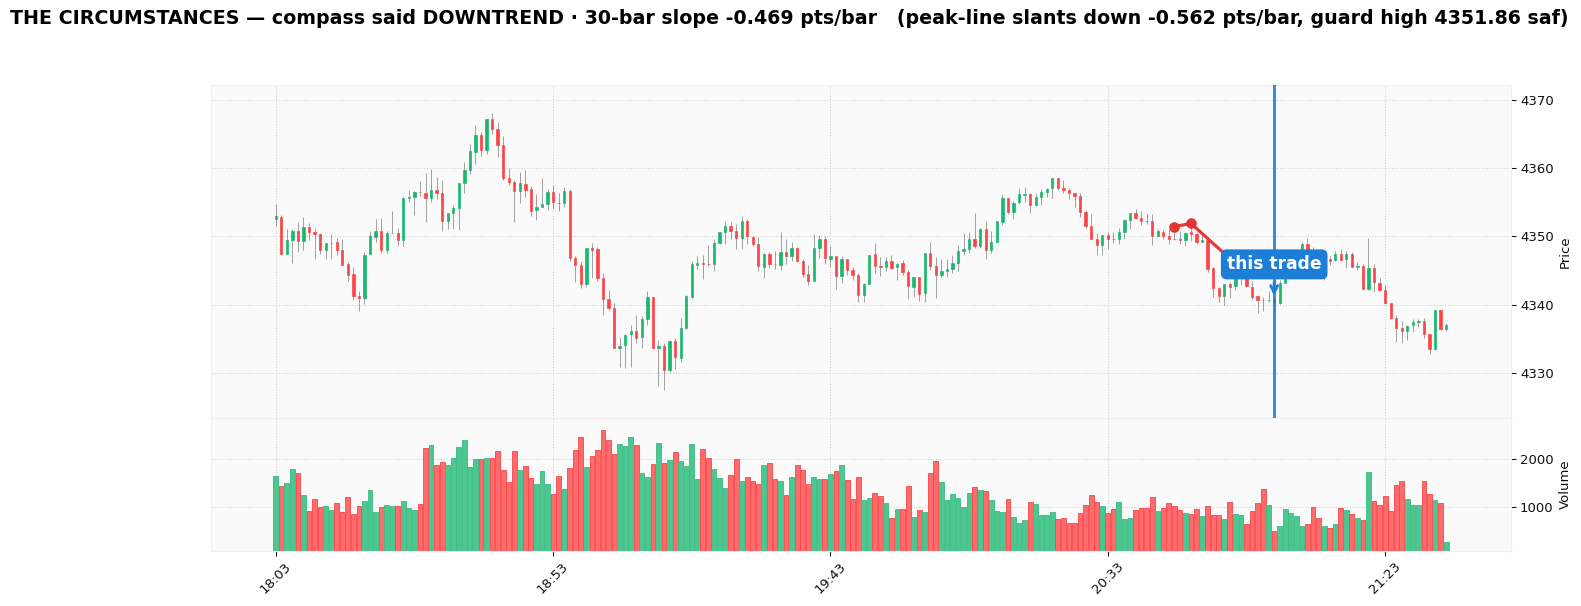
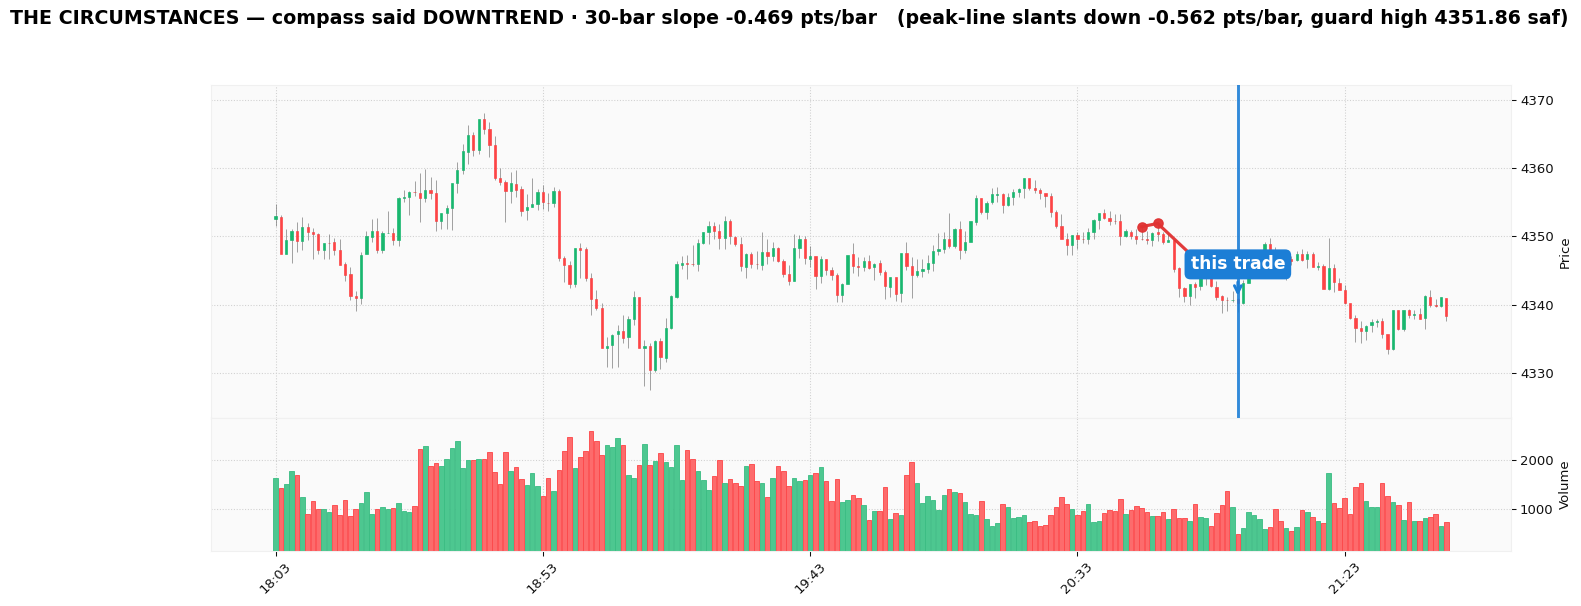
👀 The forming-setup window gets the same two-panel treatment (Zee): the forming setup on top, THE CIRCUMSTANCES NOW underneath — same zoomed-out trend/slope/volume frame as a taken trade, so a setup on the way is judged in exactly the same visual terms. Captions adapt (forming vs taken); scrollable 

diff --git a/monitor/forensic_chart.py b/monitor/forensic_chart.py
@@ -389,18 +389,30 @@ def draw_forming(out=None):
     return out, f"{side} · trigger {lamp:.2f} · {swept_txt} · {laws} diamond(s)"
 
 
+def draw_context_now(bars_back=180):
+    """The same CIRCUMSTANCES panel for the live moment — used under the forming
+    setup, so a setup on the way is judged in the same visual frame as a taken
+    trade (Zee 2026-08-07)."""
+    return draw_context(None, None, bars_back=bars_back,
+                        out=Path(__file__).parent / "setup_labels" / "context_now.png")
+
+
 def draw_context(broker_ts, side, bars_back=180, out=None):
     """THE CIRCUMSTANCES (Zee 2026-08-07): a zoomed-out view under the close-up —
     candles + volume over a wide window, the trade's entry marked, and the compass
     line drawn through the swing peaks, so it is obvious at a glance what the trend
     and slope looked like when this trade was taken."""
     import trend_eyes as _TE
-    r = resolve_trade(broker_ts, side)
     rows = load()
     if not rows:
         return None
-    e_utc = r["entry_utc"] if r else (datetime.strptime(broker_ts, "%Y.%m.%d %H:%M:%S")
-                                      - timedelta(hours=3))
+    live = broker_ts is None
+    r = None if live else resolve_trade(broker_ts, side)
+    if live:
+        e_utc = rows[-1][0]
+    else:
+        e_utc = r["entry_utc"] if r else (datetime.strptime(broker_ts, "%Y.%m.%d %H:%M:%S")
+                                          - timedelta(hours=3))
     ei = next((i for i, x in enumerate(rows)
                if x[0] <= e_utc < x[0] + timedelta(minutes=1)), None)
     if ei is None:
@@ -421,14 +433,17 @@ def draw_context(broker_ts, side, bars_back=180, out=None):
     a = _TE.auto_call(tb, upto=ei + 1)
     slope = _TE.slope_of(tb, upto=ei + 1)
     style = mpf.make_mpf_style(base_mpf_style="yahoo", gridstyle=":")
-    ttl = (f"THE CIRCUMSTANCES — compass said {a['trend']} · 30-bar slope "
-           f"{slope:+.3f} pts/bar   ({a['why'][:60]})")
+    ttl = ((f"THE CIRCUMSTANCES NOW — compass says {a['trend']} · 30-bar slope "
+            f"{slope:+.3f} pts/bar   ({a['why'][:58]})") if live else
+           (f"THE CIRCUMSTANCES — compass said {a['trend']} · 30-bar slope "
+            f"{slope:+.3f} pts/bar   ({a['why'][:60]})"))
     fig, axes = mpf.plot(df, type="candle", style=style, volume=True, figsize=(19, 7),
                          returnfig=True, title=ttl)
     ax = axes[0]
     epos = ei - lo
     ax.axvline(epos, color="#1c7ed6", lw=2.2, ls="-", alpha=0.9, zorder=5)
-    ax.annotate("this trade", xy=(epos, win[epos][2]), textcoords="offset points",
+    ax.annotate("now" if live else "this trade", xy=(epos, win[epos][2]),
+                textcoords="offset points",
                 xytext=(0, 22), fontsize=13, fontweight="bold", color="white",
                 ha="center", annotation_clip=False, zorder=6,
                 bbox=dict(boxstyle="round,pad=0.35", fc="#1c7ed6", ec="none"),
@@ -445,7 +460,7 @@ def draw_context(broker_ts, side, bars_back=180, out=None):
     pad = max((hi_p - lo_p) * 0.10, 0.3)
     ax.set_ylim(lo_p - pad, hi_p + pad)
     out = out or (Path(__file__).parent / "setup_labels" /
-                  f"context_{broker_ts[11:].replace(':', '')}.png")
+                  f"context_{(broker_ts or 'now')[11:].replace(':', '') or 'now'}.png")
     fig.savefig(str(out), dpi=95, bbox_inches="tight")
     plt.close(fig)
     return out

diff --git a/gui/camel_gui.py b/gui/camel_gui.py
@@ -228,10 +228,11 @@ class Cockpit:
                 import forensic_chart as FC
                 import importlib; importlib.reload(FC)
                 p, msg = FC.draw_forming()
+                ctx = FC.draw_context_now() if p else None
             except Exception as ex:
-                p, msg = None, f"error: {ex}"
+                p, msg, ctx = None, f"error: {ex}", None
             if p:
-                self.root.after(0, lambda: (self._show_png(win, lbl, p),
+                self.root.after(0, lambda: (self._show_pngs(win, lbl, p, ctx),
                                             win.title(f"👀 forming — {msg}")))
             else:
                 self.root.after(0, lambda: lbl.config(text=msg))
@@ -283,8 +284,12 @@ class Cockpit:
         canvas.bind_all("<MouseWheel>", lambda e: canvas.yview_scroll(int(-e.delta/120), "units"))
         win._imgs = []
         maxw = int(sw * 0.80)
-        for pth, cap in ((path, "🔍 THE SETUP — UHV, trigger lines, breakout candle"),
-                         (ctx, "🌄 THE CIRCUMSTANCES — trend, slope and volume around this trade")):
+        forming = "forming_now" in str(path)
+        cap1 = ("👀 THE SETUP FORMING — UHV and its trigger lines, breakout still to come"
+                if forming else "🔍 THE SETUP — UHV, trigger lines, breakout candle")
+        cap2 = ("🌄 THE CIRCUMSTANCES NOW — trend, slope and volume right now" if forming
+                else "🌄 THE CIRCUMSTANCES — trend, slope and volume around this trade")
+        for pth, cap in ((path, cap1), (ctx, cap2)):
             if not pth:
                 continue
             tk.Label(frame, text=cap, font=("Segoe UI", 13, "bold"),
